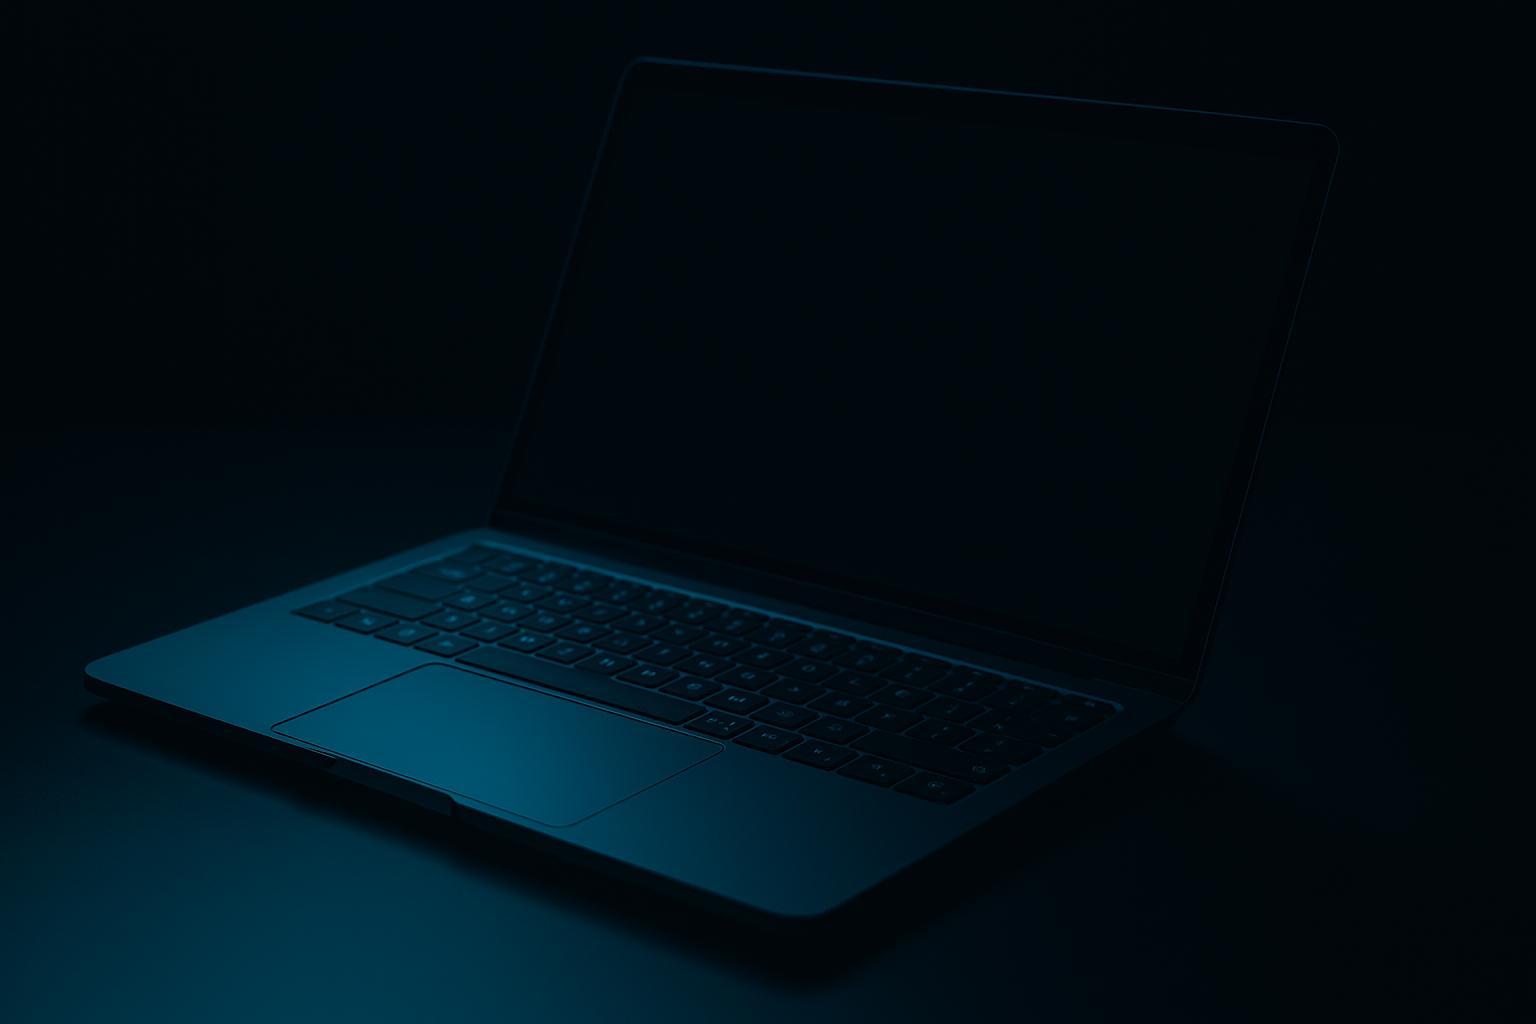
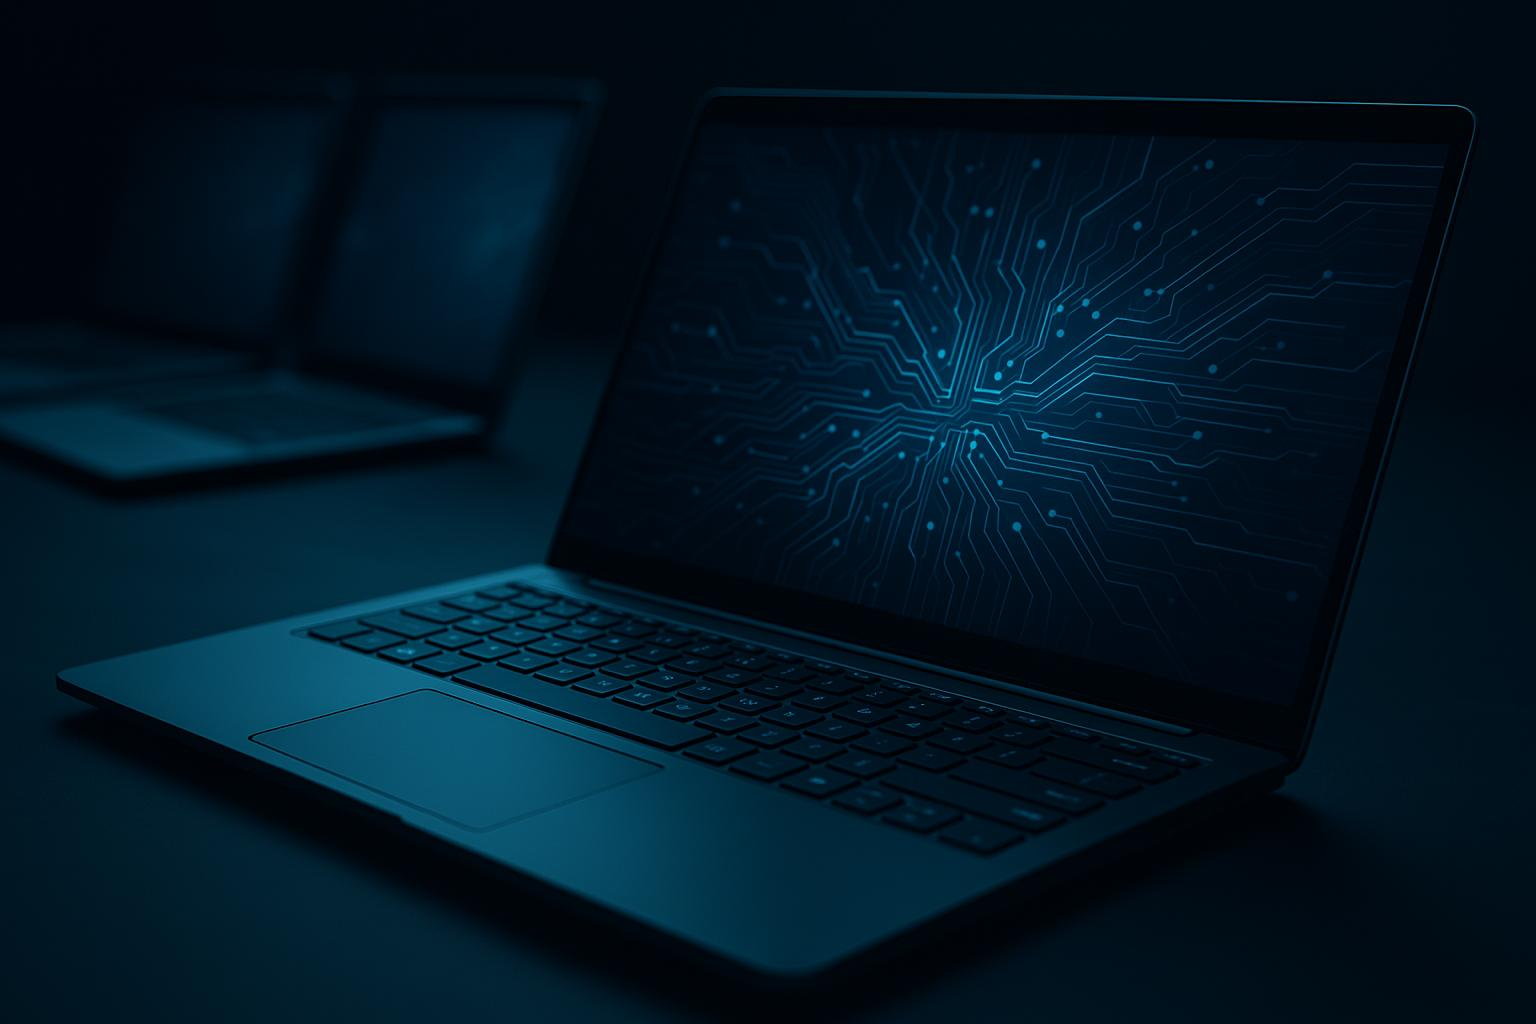
claro

diff --git a/index.html b/index.html
@@ -124,7 +124,7 @@
 
   <section id="tecnologias" class="grid-section">
     <div class="grid">
-      <a href="pagina1.html" class="btn" data-bg="https://images.unsplash.com/photo-1518770660439-4636190af475">Notebooks</a>
+      <a href="notebooks.html" class="btn" data-bg="https://linguanotto.github.io/Steam-/imagens/notebook_image.jpg">Notebooks</a>
       <a href="pagina2.html" class="btn" data-bg="https://images.unsplash.com/photo-1581092334703-900e1bfa7f56">Celulares</a>
       <a href="pagina3.html" class="btn" data-bg="https://images.unsplash.com/photo-1626785774573-4a21e1d27d84">Impressão 3D</a>
       <a href="pagina4.html" class="btn" data-bg="https://images.unsplash.com/photo-1605902711622-cfb43c4437d1">Corte a laser</a>
